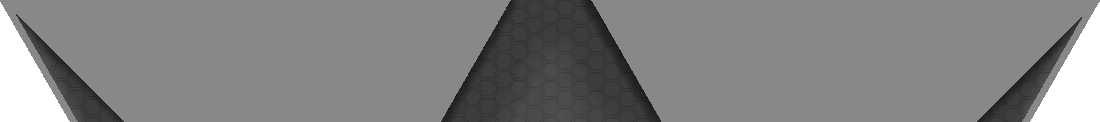
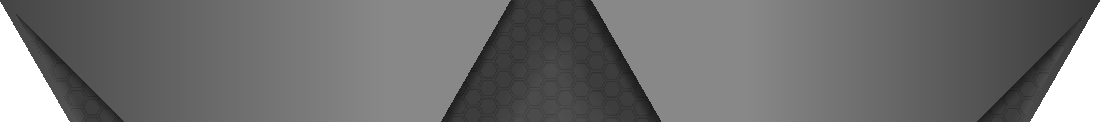
Add Images, Change Color Behavior

diff --git a/MainWindow.xaml b/MainWindow.xaml
@@ -14,6 +14,11 @@
         Loaded="Window_Loaded"
         Title="MainWindow" Height="112" Width="1100" VerticalAlignment="Top">
     <Grid x:Name="RootGrid">
-        <Image HorizontalAlignment="Center" Height="112" VerticalAlignment="Center" Width="1100" Source="/Images/Custom Ticker/TickerCustom-Background.png" RenderTransformOrigin="0,0"/>
+        <Image Name="BackgroundBase" HorizontalAlignment="Center" Height="112" VerticalAlignment="Center" Width="1100" 
+               Source="/Images/Custom Ticker/TickerCustom-Background.png" RenderTransformOrigin="0,0"/>
+        <Image Name="BackGroundTeamColors" HorizontalAlignment="Center" Height="112" VerticalAlignment="Center" Width="1100"
+               Source="/Images/Custom Ticker/Ticker-TeamBackground 1.png" RenderTransformOrigin="0,0" Loaded="BGColorLoaded"/>
+        <Image Name="BackGroundTeamScoreBar1" HorizontalAlignment="Center" Height="112" VerticalAlignment="Center" Width="1100"
+               Source="/Images/Custom Ticker/Ticker-TeamScoreBar 1.png" RenderTransformOrigin="0,0" Loaded="ScoreBarLoaded"/>
     </Grid>
 </Window>

diff --git a/MainWindow.xaml.cs b/MainWindow.xaml.cs
@@ -5,6 +5,14 @@ using System.Threading.Tasks;
 using System.Windows;
 using System.Windows.Interop;
 using System.Windows.Media.Animation;
+using System.Drawing;
+using System.Windows.Media.Imaging;
+using System.Windows.Controls;
+using System.Windows.Media.Imaging;
+using System.Windows.Media;
+using System.Windows;
+using System;
+
 
 namespace Desktop_Scorebug_WPF
 {
@@ -46,6 +54,19 @@ namespace Desktop_Scorebug_WPF
             CenterTopOnScreen();
             MakeWindowClickThrough();
             TrackMouseAsync(_cts.Token);
+            
+            
+        }
+
+        private void BGColorLoaded(object sender, RoutedEventArgs e)
+        {
+            var TeamColor1 = System.Drawing.Color.FromArgb(0, 44, 95);
+            RecolorImageWithAlpha(BackGroundTeamColors, TeamColor1);
+        }
+        private void ScoreBarLoaded(object sender, RoutedEventArgs e)
+        {
+            var TeamColor1 = System.Drawing.Color.FromArgb(0, 37, 81);
+            RecolorImageWithAlpha(BackGroundTeamScoreBar1, TeamColor1);
         }
 
         private void CenterTopOnScreen()
@@ -89,6 +110,41 @@ namespace Desktop_Scorebug_WPF
 
                 await Task.Delay(50);
             }
+        }
+
+        private void RecolorImageWithAlpha(Image targetImage, System.Drawing.Color targetColor)
+        {
+            if (targetImage.Source is not BitmapSource sourceBitmap)
+                throw new InvalidOperationException("The provided Image does not contain a valid BitmapSource.");
+
+            // Ensure it's in BGRA32 format (32bpp with alpha)
+            FormatConvertedBitmap formattedBitmap = new FormatConvertedBitmap();
+            formattedBitmap.BeginInit();
+            formattedBitmap.Source = sourceBitmap;
+            formattedBitmap.DestinationFormat = PixelFormats.Bgra32;
+            formattedBitmap.EndInit();
+
+            int width = formattedBitmap.PixelWidth;
+            int height = formattedBitmap.PixelHeight;
+            int stride = width * 4;
+            byte[] pixelData = new byte[height * stride];
+
+            formattedBitmap.CopyPixels(pixelData, stride, 0);
+
+            for (int i = 0; i < pixelData.Length; i += 4)
+            {
+                byte alpha = pixelData[i + 3]; // Alpha stays
+
+                pixelData[i] = targetColor.B; // Blue
+                pixelData[i + 1] = targetColor.G; // Green
+                pixelData[i + 2] = targetColor.R; // Red
+                pixelData[i + 3] = alpha;
+            }
+
+            WriteableBitmap recoloredBitmap = new WriteableBitmap(width, height, 96, 96, PixelFormats.Bgra32, null);
+            recoloredBitmap.WritePixels(new Int32Rect(0, 0, width, height), pixelData, stride, 0);
+
+            targetImage.Source = recoloredBitmap;
         }
 
         private void FadeOut()
